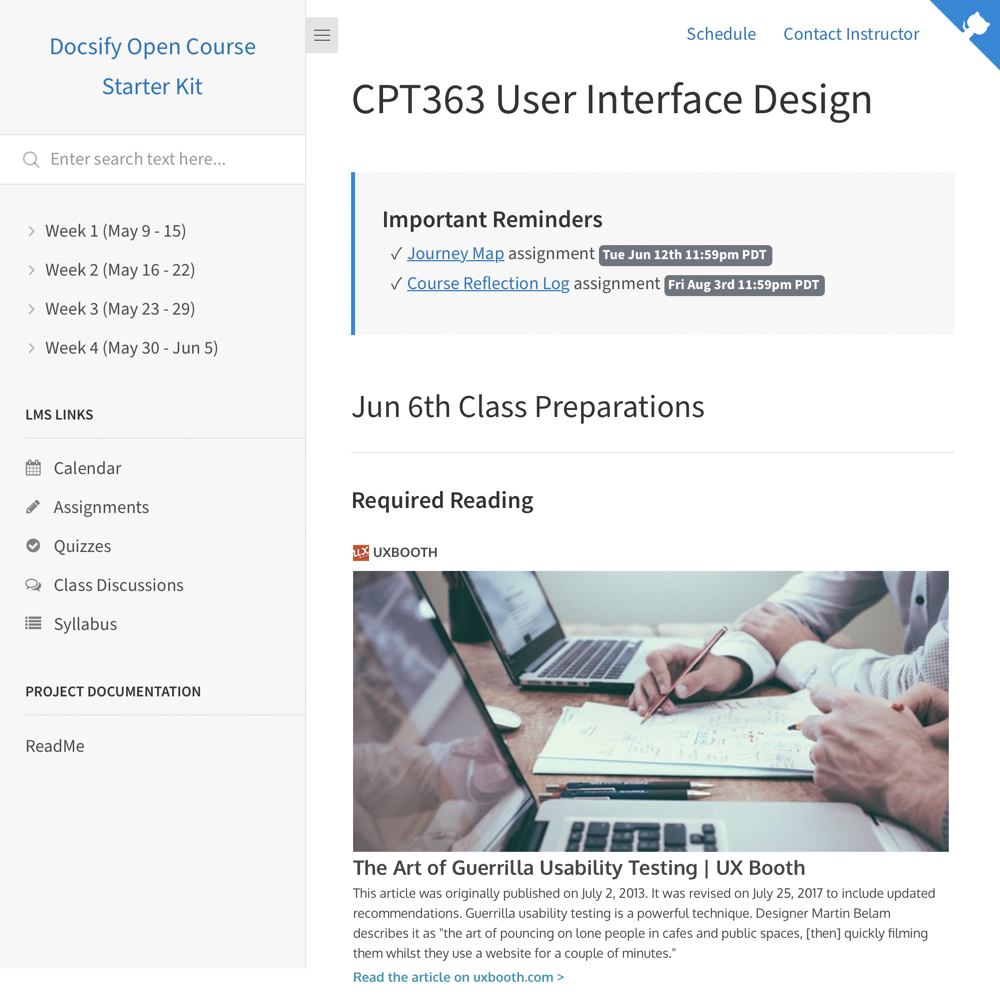
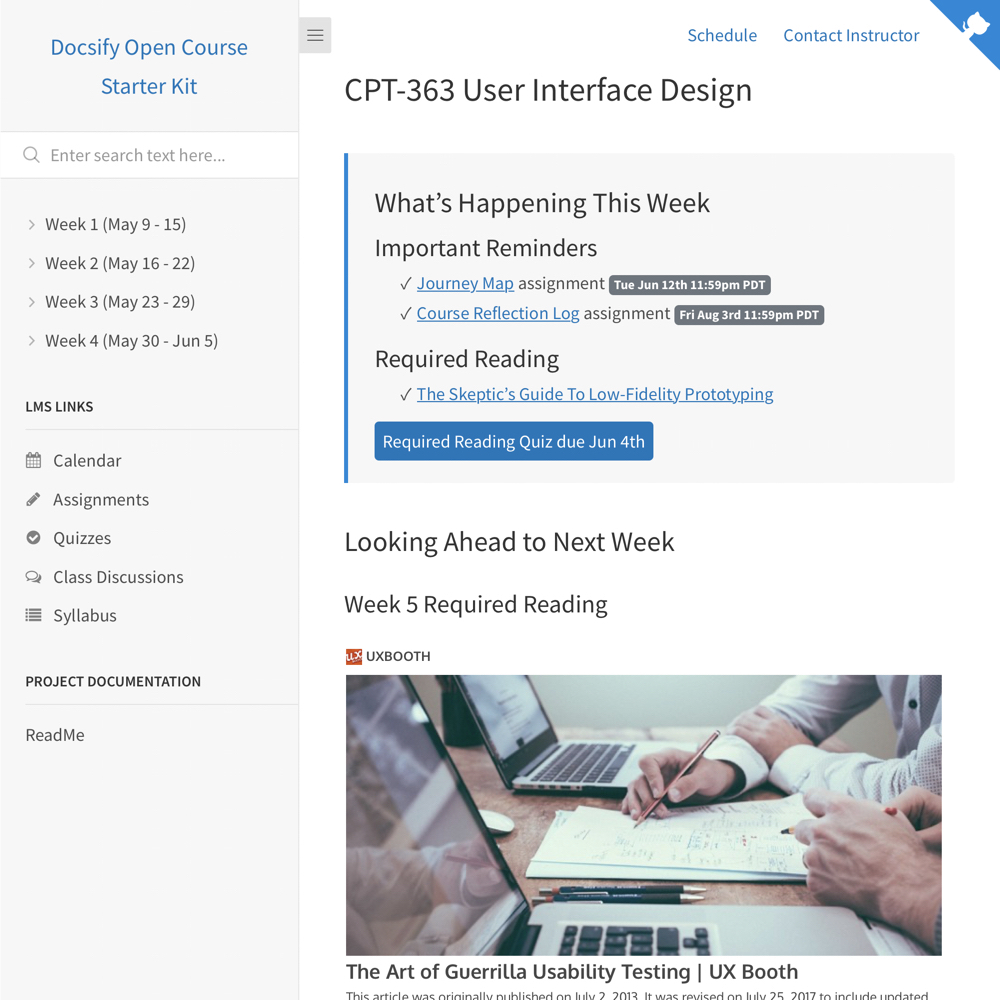
Style and demo content updates.

diff --git a/docs/assets/css/theme-custom.css b/docs/assets/css/theme-custom.css
@@ -1,7 +1,18 @@
 :root {
   --base-font-family: "Source Sans Pro","Helvetica Neue",Arial,sans-serif;
-  --base-font-size: 18px;
-  --heading-h3-font-weight: 600;
+  --base-font-size: 1.1rem;
+  --heading-h1-font-size: 1.85rem;
+  --heading-h2-font-size: 1.6rem;
+  --heading-h3-font-size: 1.4rem;
+  --heading-h4-font-size: 1.3rem;
+  --heading-h5-font-size: 1.2rem;
+  --heading-h6-font-size: 1.1rem;
+  --heading-h1-font-weight: 400;
+  --heading-h2-font-weight: 400;
+  --heading-h3-font-weight: 400;
+  --heading-h4-font-weight: 400;
+  --heading-h5-font-weight: 400;
+  --heading-h6-font-weight: 400;
   --link-color: #0A75BD;
   --navbar-root-color: #0A75BD;
   --navbar-root-color--active: #0A75BD;
@@ -52,7 +63,7 @@
     color: #fff;
     background-color: #6c757d;
     display: inline-block;
-    padding: .25em .4em .25em 1.6em;
+    padding: .25em .4em .25em .4em;
     font-size: 75%;
     font-weight: 700;
     line-height: 1;
@@ -109,12 +120,22 @@
 
 .markdown-section blockquote ul li {
   padding-left: 0em;
-  text-indent: -1em;
 }
 
 .markdown-section blockquote ul li:before {
   content: '\2713';
   padding-right: 5px;
+}
+
+.markdown-section h2 {
+  border-style: none;
+  margin: 0;
+  padding: 0;
+}
+
+.markdown-section h3 {
+  margin: 0;
+  padding: 0;
 }
 
 .reminders {
@@ -155,7 +176,6 @@
 
 .reminders ul li {
   padding-left: 0em;
-  text-indent: -1em;
 }
 
 .reminders ul li:before {

diff --git a/docs/index.html b/docs/index.html
@@ -23,7 +23,7 @@
     <link rel="stylesheet" href="https://unpkg.com/@fortawesome/fontawesome-free/css/solid.css" />
 
     <!-- Google Fonts -->
-    <link href="https://fonts.googleapis.com/css2?family=Open+Sans:ital,wght@0,400;0,700;1,400;1,700&display=swap" rel="stylesheet">
+    <link href="https://fonts.googleapis.com/css2?family=Source+Sans+Pro:ital,wght@0,400;0,600;0,700;1,400;1,600;1,700&display=swap" rel="stylesheet">
 
 </head>
 

diff --git a/docs/schedule.md b/docs/schedule.md
@@ -1,26 +1,26 @@
 # Schedule
 
- **:fas fa-calendar fa-fw: Week 1**  
+**:fas fa-calendar fa-fw: [Week 1](module-1)**  
 :fas fa-desktop fa-fw: [Introduction to UX Design](https://docs.google.com/presentation/d/e/2PACX-1vRnnRFelgw1ksq_p8Eryg3dnyLCRRLPf5fBgdwdv9p-tCIwcxqWvzDGrGbjxGHL7HqEJVpmV26ntk3a/pub?start=false&loop=false&delayms=3000)   
 :fas fa-book fa-fw: [Usability 101: Introduction to Usability](https://www.nngroup.com/articles/usability-101-introduction-to-usability/)  
 
-**:fas fa-calendar fa-fw: Week 2**  
+**:fas fa-calendar fa-fw: [Week 2](module-2)**  
 :fas fa-keyboard fa-fw: [Course Reflection Log](https://sso.canvaslms.com/courses/1924881/assignments/14377752) due Aug 3rd  
 :fas fa-desktop fa-fw: [The Process of UX Design](https://docs.google.com/presentation/d/e/2PACX-1vRnnRFelgw1ksq_p8Eryg3dnyLCRRLPf5fBgdwdv9p-tCIwcxqWvzDGrGbjxGHL7HqEJVpmV26ntk3a/pub?start=false&loop=false&delayms=3000)   
 :fas fa-book fa-fw: [The Evolution of UX Process Methodology](https://uxplanet.org/the-evolution-of-ux-process-methodology-47f52557178b)  
 
-**:fas fa-calendar fa-fw: Week 3**  
+**:fas fa-calendar fa-fw: [Week 3](module-3)**  
 :fas fa-keyboard fa-fw: [Journey Map](https://sso.canvaslms.com/courses/1924881/assignments/14377756) assignment due Jun 12th  
-:fas fa-folder fa-fw: [Informed Consent Materials](https://sso.canvaslms.com/courses/1924881/files/folder/Handouts/Informed%20Consent)  
+:fas fa-folder fa-fw: [Informed Consent Materials](https://sso.canvaslms.com/courses/1924881/files/folder/Downloads/Informed%20Consent)  
 :fas fa-desktop fa-fw: [Strategic UX Design](https://docs.google.com/presentation/d/e/2PACX-1vRnnRFelgw1ksq_p8Eryg3dnyLCRRLPf5fBgdwdv9p-tCIwcxqWvzDGrGbjxGHL7HqEJVpmV26ntk3a/pub?start=false&loop=false&delayms=3000)   
 :fas fa-book fa-fw: [What is a User Journey Map?](https://www.aytech.ca/blog/user-journey-map/)  
 
-**:fas fa-calendar fa-fw: Week 4**  
+**:fas fa-calendar fa-fw: [Week 4](module-4)**  
 :fas fa-desktop fa-fw: [Prototyping](https://docs.google.com/presentation/d/e/2PACX-1vRnnRFelgw1ksq_p8Eryg3dnyLCRRLPf5fBgdwdv9p-tCIwcxqWvzDGrGbjxGHL7HqEJVpmV26ntk3a/pub?start=false&loop=false&delayms=3000)   
 :fas fa-book fa-fw: [The Skeptic’s Guide To Low-Fidelity Prototyping](https://www.smashingmagazine.com/2014/10/the-skeptics-guide-to-low-fidelity-prototyping/)  
 :fas fa-users fa-fw: In-class office hours (tentative)  
 
-**:fas fa-calendar fa-fw: Week 5**  
+**:fas fa-calendar fa-fw: [Week 5](module-5)**  
 :fas fa-desktop fa-fw: [Usability Testing](https://docs.google.com/presentation/d/e/2PACX-1vRnnRFelgw1ksq_p8Eryg3dnyLCRRLPf5fBgdwdv9p-tCIwcxqWvzDGrGbjxGHL7HqEJVpmV26ntk3a/pub?start=false&loop=false&delayms=3000)   
 :fas fa-book fa-fw: [The Art of Guerrilla Usability Testing](http://www.uxbooth.com/articles/the-art-of-guerrilla-usability-testing/)  
 :fas fa-users fa-fw: In-class office hours (tentative)

diff --git a/docs/sidebar.md b/docs/sidebar.md
@@ -3,10 +3,10 @@
 - [Week 3 (May 23 - 29)](module-3)
 - [Week 4 (May 30 - Jun 5)](module-4)
 - **LMS Links**
-- [![Calendar](https://icongr.am/fontawesome/calendar.svg?size=16&color=808080)Calendar](https://sso.canvaslms.com/calendar)
-- [![Assignments](https://icongr.am/fontawesome/pencil.svg?size=16&color=808080)Assignments](https://sso.canvaslms.com/courses/1924881/assignments )
-- [![Quizzes](https://icongr.am/fontawesome/check-circle.svg?size=16&color=808080)Quizzes](https://sso.canvaslms.com/courses/1924881/quizzes)
-- [![Class Discussions](https://icongr.am/fontawesome/comments-o.svg?size=16&color=808080)Class Discussions](https://sso.canvaslms.com/courses/1924881/discussion_topics)
-- [![Syllabus](https://icongr.am/fontawesome/list.svg?size=16&color=808080)Syllabus](https://sso.canvaslms.com/courses/1924881/assignments/syllabus)
+- [![Calendar](https://icongr.am/fontawesome/calendar.svg?size=16&color=808080) Calendar](https://sso.canvaslms.com/calendar)
+- [![Assignments](https://icongr.am/fontawesome/pencil.svg?size=16&color=808080) Assignments](https://sso.canvaslms.com/courses/1924881/assignments )
+- [![Quizzes](https://icongr.am/fontawesome/check-circle.svg?size=16&color=808080) Quizzes](https://sso.canvaslms.com/courses/1924881/quizzes)
+- [![Class Discussions](https://icongr.am/fontawesome/comments-o.svg?size=16&color=808080) Class Discussions](https://sso.canvaslms.com/courses/1924881/discussion_topics)
+- [![Syllabus](https://icongr.am/fontawesome/list.svg?size=16&color=808080) Syllabus](https://sso.canvaslms.com/courses/1924881/assignments/syllabus)
 - **Project Documentation**
   - [ReadMe](https://github.com/hibbitts-design/docsify-open-course-starter-kit/blob/master/README.md)

diff --git a/docs/module-3.md b/docs/module-3.md
@@ -2,18 +2,18 @@
 
 ![Bullseye](assets/images/6384294717_5047a35d48_b.jpg ':class=banner-image')
 
-### Summaries and Questions  
+## Summaries and Questions  
 [May 23rd Class One-minute Summaries](https://sso.canvaslms.com/courses/1924881/assignments/14377744)
 
-### Presented Slides  
+## Presented Slides  
 <div class="video-container"><iframe src="https://docs.google.com/presentation/d/e/2PACX-1vRnnRFelgw1ksq_p8Eryg3dnyLCRRLPf5fBgdwdv9p-tCIwcxqWvzDGrGbjxGHL7HqEJVpmV26ntk3a/embed?start=false&loop=false&delayms=3000" frameborder="0" width=780" height="585" allowfullscreen="true" mozallowfullscreen="true" webkitallowfullscreen="true"></iframe></div>
 
-### Supplemental Materials  
+## Supplemental Materials  
 <div class="video-container"><iframe width="780" height="585" src="https://www.youtube.com/embed/a40QYgO-_aM" frameborder="0" allow="accelerometer; autoplay; encrypted-media; gyroscope; picture-in-picture" allowfullscreen></iframe></div>
 
-### Assignments
+## Assignments
 [Journey Map](https://sso.canvaslms.com/courses/1924881/assignments/14377756)  
 
-### Required Reading  
+## Required Reading  
 <a class="embedly-card" data-card-controls="0" data-card-align="left" href="https://www.aytech.ca/blog/user-journey-map/">What is a User Journey Map?</a>
 <script async src="//cdn.embedly.com/widgets/platform.js" charset="UTF-8"></script>

diff --git a/docs/home.md b/docs/home.md
@@ -1,18 +1,20 @@
-# CPT363 User Interface Design
+# CPT-363 User Interface Design
 
+> ## What's Happening This Week
 > ### Important Reminders
 > * [Journey Map](#) assignment <span class='badge'> Tue Jun 12th 11:59pm PDT</span>
 > * [Course Reflection Log](#) assignment <span class='badge'> Fri Aug 3rd 11:59pm PDT</span>
-## Jun 6th Class Preparations
+>
+> ### Required Reading
+> * [The Skeptic’s Guide To Low-Fidelity Prototyping](https://www.smashingmagazine.com/2014/10/the-skeptics-guide-to-low-fidelity-prototyping/)
+>
+> [Required Reading Quiz due Jun 4th](https://sso.canvaslms.com/courses/1924881/quizzes/4876153 ':class=button')
 
-### Required Reading
+## Looking Ahead to Next Week
+
+### Week 5 Required Reading
 <a class="embedly-card" data-card-controls="0" data-card-align="left" href="http://www.uxbooth.com/articles/the-art-of-guerrilla-usability-testing/">The Art of Guerrilla Usability Testing | UX Booth</a>
 <script async src="//cdn.embedly.com/widgets/platform.js" charset="UTF-8"></script>
 
-[Required Reading Quiz](https://sso.canvaslms.com/courses/1924881/quizzes/4876153 ':class=button')
-
-### Slides to be Discussed
-
+### Week 5 Slides to be Discussed
 [Usability Testing](https://www.google.ca/slides/about/)
-
-Did you attend this class? [Share your one-minute summary](#) before midnight, the day of class.

diff --git a/docs/module-4.md b/docs/module-4.md
@@ -11,9 +11,9 @@
 ## Supplemental Materials  
 <div class="video-container"><iframe width="780" height="585" src="https://www.youtube.com/embed/MwidSAlbEB8" frameborder="0" allow="accelerometer; autoplay; encrypted-media; gyroscope; picture-in-picture" allowfullscreen></iframe></div>
 
-## Handouts
-[4-UP BROWSERS + GRID](https://sso.canvaslms.com/courses/1924881/files/folder/Handouts/Sketching%20Templates/sneakpeekit-4-browsers)  
-[4-UP MOBILES + GRID](https://sso.canvaslms.com/courses/1924881/files/folder/Handouts/Sketching%20Templates/sneakpeekit-4-mobiles)  
+## Downloads
+[4-UP BROWSERS + GRID](https://sso.canvaslms.com/courses/1924881/files/folder/Downloads/Sketching%20Templates/sneakpeekit-4-browsers)  
+[4-UP MOBILES + GRID](https://sso.canvaslms.com/courses/1924881/files/folder/Downloads/Sketching%20Templates/sneakpeekit-4-mobiles)  
 
 ## Required Reading  
 <a class="embedly-card" data-card-controls="0" data-card-align="left" href="https://www.smashingmagazine.com/2014/10/the-skeptics-guide-to-low-fidelity-prototyping/">The Skeptic’s Guide To Low-Fidelity Prototyping</a>

diff --git a/docs/module-1.md b/docs/module-1.md
@@ -12,8 +12,8 @@
 [Elements of User Experience by Jesse James Garrett](https://qofr.files.wordpress.com/2016/11/q-of-r-presentation-11.pdf)
 <div class="responsive-wrap"><iframe src="https://docs.google.com/viewer?url=http://infolab.stanford.edu/pub/papers/google.pdf&embedded=true" style="width:780px; height:585px;" frameborder="0"></iframe></div>
 
-## Handouts
-[Course Overview](https://sso.canvaslms.com/courses/1924881/files/folder/Handouts/Course%20Overview)  
+## Downloads
+[Course Overview](https://sso.canvaslms.com/courses/1924881/files/folder/Downloads/Course%20Overview)  
 
 ## Recommended Reading  
 <a class="embedly-card" data-card-controls="0" data-card-align="left" href="https://www.nngroup.com/articles/usability-101-introduction-to-usability/">Usability 101: Introduction to Usability</a>

diff --git a/docs/module-2.md b/docs/module-2.md
@@ -11,8 +11,8 @@
 ## CPT-363 UX Design Process/Toolkit
 ![UX Design Process/Toolkit](assets/images/ux-toolkit-8-no-numbers.png)
 
-## Handouts
-[Product Reaction Cards](https://sso.canvaslms.com/courses/1924881/files/folder/Handouts/Product%20Reaction%20Cards)  
+## Downloads
+[Product Reaction Cards](https://sso.canvaslms.com/courses/1924881/files/folder/Downloads/Product%20Reaction%20Cards)  
 
 ## Assignments
 [Course Reflection Log](https://sso.canvaslms.com/courses/1413912/assignments/9519528)  

diff --git a/docs/module-5.md b/docs/module-5.md
@@ -1,6 +1,6 @@
 # Week 5 (Jun 6 - 13)
 
-![Wireframe](assets/images/6968244538_4c0f7c7e64_k.jpg ':class=banner-image')
+![Usability Test](assets/images/4642289926_7964e733d1_b.jpg ':class=banner-image')
 
 ## Summaries and Questions  
 [Jun 6th Class One-minute Summaries](https://sso.canvaslms.com/courses/1924881/assignments/14377746)

diff --git a/docs/contact-instructor.md b/docs/contact-instructor.md
@@ -4,6 +4,9 @@
 Some Name  
 somename@somewhere.edu  
 
-Virtual office hours chat:  
+Online office hours:  
 Mondays 12:00-1:30pm  
 Fridays 12:00-1:00pm  
+
+Suggestion, concern or complaint?  
+Send me your [anonymous course feedback](#)!
